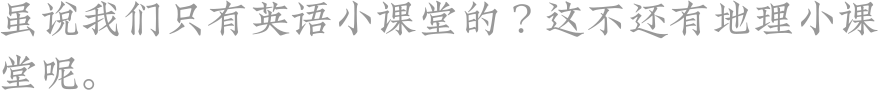
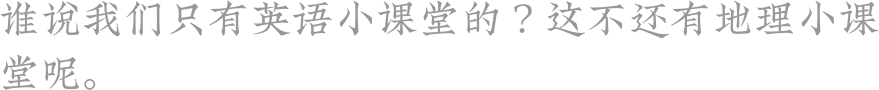
release

diff --git a/src/data/dayInfo.ts b/src/data/dayInfo.ts
@@ -229,14 +229,10 @@ export default `
 8.12 | Cormorant | Cormorant-Regular.ttf | 虽然作者没有从任何一个已有的字体出发，完全从草图开始设计了整套字体，但发现依旧留下了浓浓的给深刻印象的 Garamond 的痕迹。有时候潜移默化就是这么神奇。 ||
 8.13 | Ewert | Ewert-Regular.ttf | Ewert 的灵感来源于爱沙尼亚艺术家Olev Soans 的作品，在每个字符都留下了最突出的特征——那些像鲸鱼尾巴的装饰线。 | |
 8.14 | Red Hat Text | RedHatText-Regular.ttf | 顾名思义，它就是 Red Hat（一种#Linux 系统）所使用的字体。 | |
--->
 8.15 | Markazi Text | MarkaziText-Regular.ttf | Markazi 是伊朗的一个省，其意义为「波斯的中心」。这是一款伊朗设计师创造的适用于阿拉伯语和拉丁文字的字体。 | 谁说我们只有英语小课堂的？这不还有地理小课堂呢。 |
-<!--
 8.16 | Ultra | Ultra-Regular.ttf | 一个字体叫 Ultra，就像一个字体叫 Normal 一样奇怪（因为他们都表示一种字重）。但是 Ultra 并不在意，有够粗，就是这么自信。 ||
 8.17 | Merriweather Sans | MerriweatherSans-Regular.ttf | 字体不一定要大号才能吸人眼球，缩到最小也能看清也是一种极致。#在遇到的众多号称小字号下易读的字体中，这是第一款让 600 度近视的小编不带眼镜也能看清半米外的 8px 大小的字体，可以说是很优秀了。 ||
--->
 8.18 | Dosis | Dosis-Regular.ttf | 圆头的非衬线体总是让人联想到日本街头告示随处可见的圆黑体。 | 日本到处都是圆黑体的一大原因是手工绘制时要比黑体快得多，不知道设计师设计 Dosis，是不是也是为了在手绘上省了一点功夫…… |
-<!--
 8.19 | Barriecito | Barriecito-Regular.ttf | 「我们刻意通过显得有些业余的外观设计，来传达一种亲和的感觉。」 | ——「说人话」#——「这笔不太好使……」|
 8.20 | Creepster | Creepster-Regular.ttf | 虽然说作者设计这个字体是为了制造惊悚的感觉，但我觉得它更适合消夏——#字母有没有像稍微化掉了一点点的冰淇淋？ | 如果没有，就当我给你讲了个用来降温的冷笑话吧…… |
 8.21 | Codystar | Codystar-Regular.ttf | 在 LCD 屏幕被大规模应用前，动态显示字母通常只能靠点阵式的机械翻转屏或者 LED 屏幕完成。而在屏幕分辨率不断突破极限的今天，人们对于点阵字体的热爱依旧没有改变。 | |
@@ -251,25 +247,26 @@ export default `
 8.30 | El Messiri | ElMessiri-Regular.ttf | El Messiri 长得很像阿联酋航空所使用的字体，而拥有一百多架 A380#（单价 25 亿人民币）的阿联酋航空无疑是世界上最土豪的公司之一。 | 由于小编字太难看不像羡辙那样拿得出手，就只好在生日偷偷埋个彩蛋许愿祝自己早日暴富了。（希望不仅仅是「长得很像」有钱人吧……） |
 8.31 | Archivo Narrow | ArchivoNarrow-Regular.ttf | 要留档（Archive）的文件，自然是要严肃认真的啦！ | |
 9.1 | Abel | Abel-Regular.ttf | 背单词背多了，到最后记的最深的永远是第一个单词 Abandon。如果字体也有一个字典并且要求背诵的话，#Abel 应该也会令人印象深刻吧…… | |
--->
-9.2 | Limelight | Limelight-Regular.ttf | 非衬线字体诞生之初多流行笔画粗细对比强烈的字体，虽然如今等线体逐渐成为了主流。 | 当年的百老汇和好莱坞在推动这一潮流的过程中功不可没。这也是许多类似的字体以 Broadway 命名的缘故。 |
-9.3 | Wire One | WireOne-Regular.ttf | 看了昨天的日历却不知道何为等线体？今天就来个例子吧。 | |
-9.4 | Rye | Rye-Regular.ttf | 「快来用我们的字体印广告吧，独特的装饰线很吸睛的哟！」 | 从我在茫茫字海中打开了这个字体的详情页来看，人家这描述并没有在瞎扯…… |
+9.2 | Limelight | Limelight-Regular.ttf | 非衬线字体诞生之初，多流行笔画粗细对比强烈的字体，虽然如今等线体逐渐成为了主流。 | 当年百老汇和好莱坞在推动这一潮流的过程中功不可没。这也是许多类似的字体以 Broadway 命名的缘故。 |
+9.3 | Wire One | WireOne-Regular.ttf | 看了昨天的日历却不知何为等线体？今天就来个例子吧。 | |
+9.4 | Rye | Rye-Regular.ttf | 「快来用我们的字体印广告吧，独特的装饰线很吸睛的哟！」 | 从我在茫茫字海中打开了这个字体的详情页这点来看，人家这描述并没有在瞎扯…… |
 9.5 | Finger Paint | FingerPaint-Regular.ttf | 在天冷或者下雨的时候，我总喜欢往窗上哈一口气，然后用手指在玻璃窗上写字。看来，有这个小癖好的远不只有我一个。 | 这款字体的起源正是艺术家拿手沾墨写下的字。 |
-9.6 | Lexend Mega | LexendMega-Regular.ttf | Lexend是一系列为了提高阅读速度而特殊设计的字体。 | 虽然在我看来主要特点是稍微把字腔放大了一点，但说不定很有用... |
+9.6 | Lexend Mega | LexendMega-Regular.ttf | Lexend 是一系列为了提高阅读速度而特殊设计的字体。 | |
 9.7 | Pompiere | Pompiere-Regular.ttf | 一般而言为了可读性，字体的 x 字高都会不低于上升部。而 Pompiere 则反其道而行之，虽然牺牲了小字号下的可读性，却在大字号下收获了意外的趣味性。 | |
 9.8 | Happy Monkey | HappyMonkey-Regular.ttf | 周末宜逛动物园放松身心。不知道这款轻松的字体能不能让你联想到正在吃香蕉的猴子脸上浮现的快乐的表情呢？ | |
-9.9 | Oxygen | Oxygen-Regular.ttf | 受到开源协议的限制，许多开源的操作系统都为自己重新设计了一套字体，而这些字体也占据了开源字体中相当一部分。 | Oxygen便是其中之一 |
+9.9 | Oxygen | Oxygen-Regular.ttf | 受到开源协议的限制，许多开源的操作系统都重新设计了一套字体，而这些字体也占据了开源字体中相当一部分——Oxygen 便是其中之一。 |  |
 9.10 | The Girl Next Door | TheGirlNextDoor-Regular.ttf | 以为这是邻家女孩的字？不，这是作者的一位地理老师的字。但在作者看来，这位老师就像邻家女孩一样，能让你在任何时候都感到放松与安心。 | 今天是教师节，祝每一位曾带给我们知识和温暖的老师节日快乐！ |
-9.11 | Buda | Buda-Light.ttf | 多瑙河将布达佩斯分为了布达与佩斯两个部分，而这个字体的名字正是源于一侧的布达。 | 一开始我找了老半天并没有找到叫佩斯的字体，后来仔细读了介绍才发现人家把布达与佩斯的对比融入了这个字体里——也就是说，他没有兄弟叫佩斯。 |
+9.11 | Buda | Buda-Light.ttf | 多瑙河将布达佩斯分为了布达与佩斯两个部分，而这个字体的名字正是源于一侧的布达。 | 一开始我找了老半天并没有找到叫佩斯的字体，后来仔细读了介绍才发现人家把布达与佩斯的对比融入了这个字体里——也就是说，它没有兄弟叫佩斯。 |
 9.12 | Wallpoet | Wallpoet-Regular.ttf | 许多墙上的文字是使用镂空的模板喷涂而成。而这个字体为了方便制作镂空模板，把所有的笔画曲线全部改成了直线。 | |
 9.13 | Montserrat Subrayada | MontserratSubrayada-Regular.ttf | 一款自带下划线的字体。 | |
 9.14 | Sue Ellen Francisco | SueEllenFrancisco-Regular.ttf | 许多由笔迹衍生而来的字体通常依旧会经历在造字软件中被调整细节的过程，而 Sue Ellen Francisco 则是作者完完全全在 Illustrator 中直接使用数位板书写而成。 | |
-9.15 | Kite One | KiteOne-Regular.ttf | 毕竟文字是用来阅读的，如何提高字体在大段文字场景下的阅读舒适度也是一个亘古不变的话题。而作者用 Kite One 提出了一个观点，字母在向右倾斜 7 度的时候最适宜阅读。 | |
-9.16 | Sirin Stencil | SirinStencil-Regular.ttf | 听说你们爱在 PPT 里用立体字？那自带3D效果的字体可不能错过。 | |
-9.17 | Poly | Poly-Regular.ttf | 这款字体最初为那些动不动就充满了（由大堆词根拼接而成的）长单词的文章而设计，通过调整 x 字高和字符间距使得其相比于普通的字体在同等字号下更节约空间。 | 听上去很适合动不动就写长句子的我，但是可惜它没有中文款…… |
-9.18 | 站酷快乐体 | ZCOOLKuaiLe-Regular.ttf | 站酷快乐体是站酷第二款以众人合作的方式完成的字体。至于第一款是啥，暂时先卖个关子。 | |
-9.19 | Yatra One | YatraOne-Regular.ttf | Yatra 在印度教里意为「朝圣之旅」。用这样一款为梵文设计的字体抄写经文是不是可能有额外的功效加成…… | |
+9.15 | Kite One | KiteOne-Regular.ttf | 毕竟文字是用来阅读的，如何提高字体在大段文字场景下的阅读舒适度也是一个亘古不变的话题。而作者用#Kite One 提出了一个观点，字母在向右倾斜 7 度的时候最适宜阅读。 | |
+9.16 | Sirin Stencil | SirinStencil-Regular.ttf | 听说你们爱在 PPT 里用立体字？那自带 3D 效果的字体可不能错过。 | |
+-->
+9.17 | 站酷快乐体 | ZCOOLKuaiLe-Regular.ttf | 站酷快乐体是站酷第二款以众人合作的方式完成的字体。至于第一款是啥，暂时先卖个关子。 | |
+9.18 | Poly | Poly-Regular.ttf | 这款字体最初为那些动不动就充满了（由大堆词根拼接而成的）长单词的文章而设计，通过调整 x 字高和字符间距使得其相比于普通的字体在同等字号下更节约空间。 | 听上去很适合动不动就写长句子的我，但是可惜它没有中文款…… |
+<!--
+9.19 | Yatra One | YatraOne-Regular.ttf | Yatra 这一单词在印度教里意为「朝圣之旅」。用这样一款为梵文设计的字体抄写经文是不是可能有额外的功效加成…… | |
 9.20 | Work Sans | WorkSans-Regular.ttf | 这是一款主要为中等字号屏幕显示设计的的字体————简而言之，方便人们搬砖用的字体。 | 把提高工作效率发挥到极致听上去像是勤劳的中华民族干的事儿...果然设计师是华裔。 |
 9.21 | Spicy Rice | SpicyRice-Regular.ttf | 以前想不好吃啥的时候，觉得老干妈拌饭也不错。在更新截止日之前还差一个字体不知道想放啥的时候，这碗「辣饭」也挺好的嘛！ | |
 

diff --git a/tools/font.js b/tools/font.js
@@ -70,6 +70,7 @@ for (let line of dayInfoLines) {
         switch (date) {
             case '2.19':
             case '3.16':
+            case '9.17':
                 shell.exec(`font2img -f "${fontPath}" -o ../src/assets/imgs/fonts/story/dark/${date}.png`
                     + ` --text "${story}" -c "${storyColor}" --font-size="18px" --dpr=3 --max-width=280 --line-height=0.4`);
                 break;

diff --git a/src/utils/constants.ts b/src/utils/constants.ts
@@ -6,8 +6,8 @@ if (IS_DEBUG) {
     console.log('THIS IS IN DEBUG MODE.');
 }
 
-export const VERSION = '1.3.15';
-export const LAST_AVAILABLE_DATE = '2019-09-01';
+export const VERSION = '1.3.16';
+export const LAST_AVAILABLE_DATE = '2019-09-21';
 
 export const DPR = 2;
 export const IMAGE_DPR = 3;
